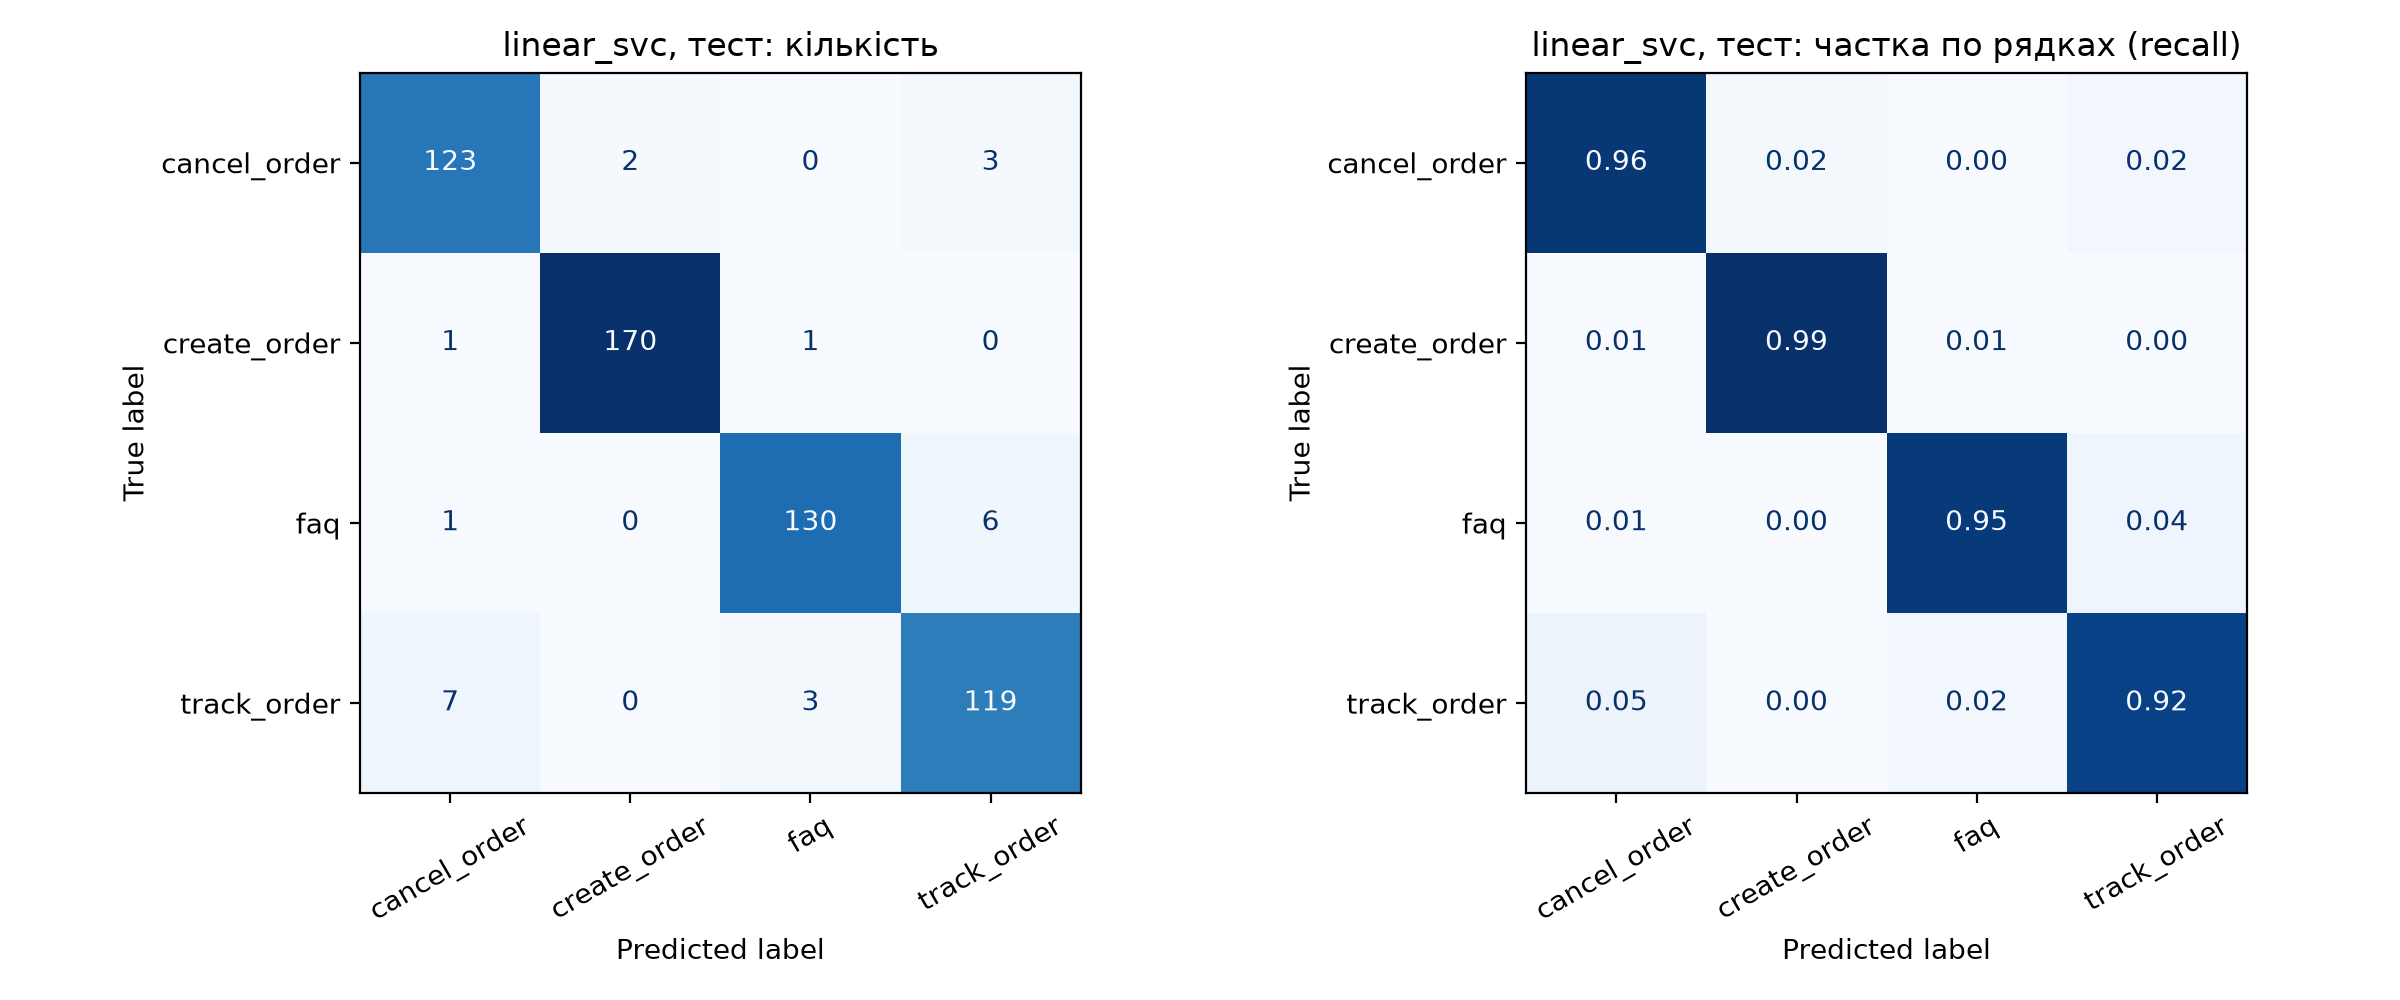
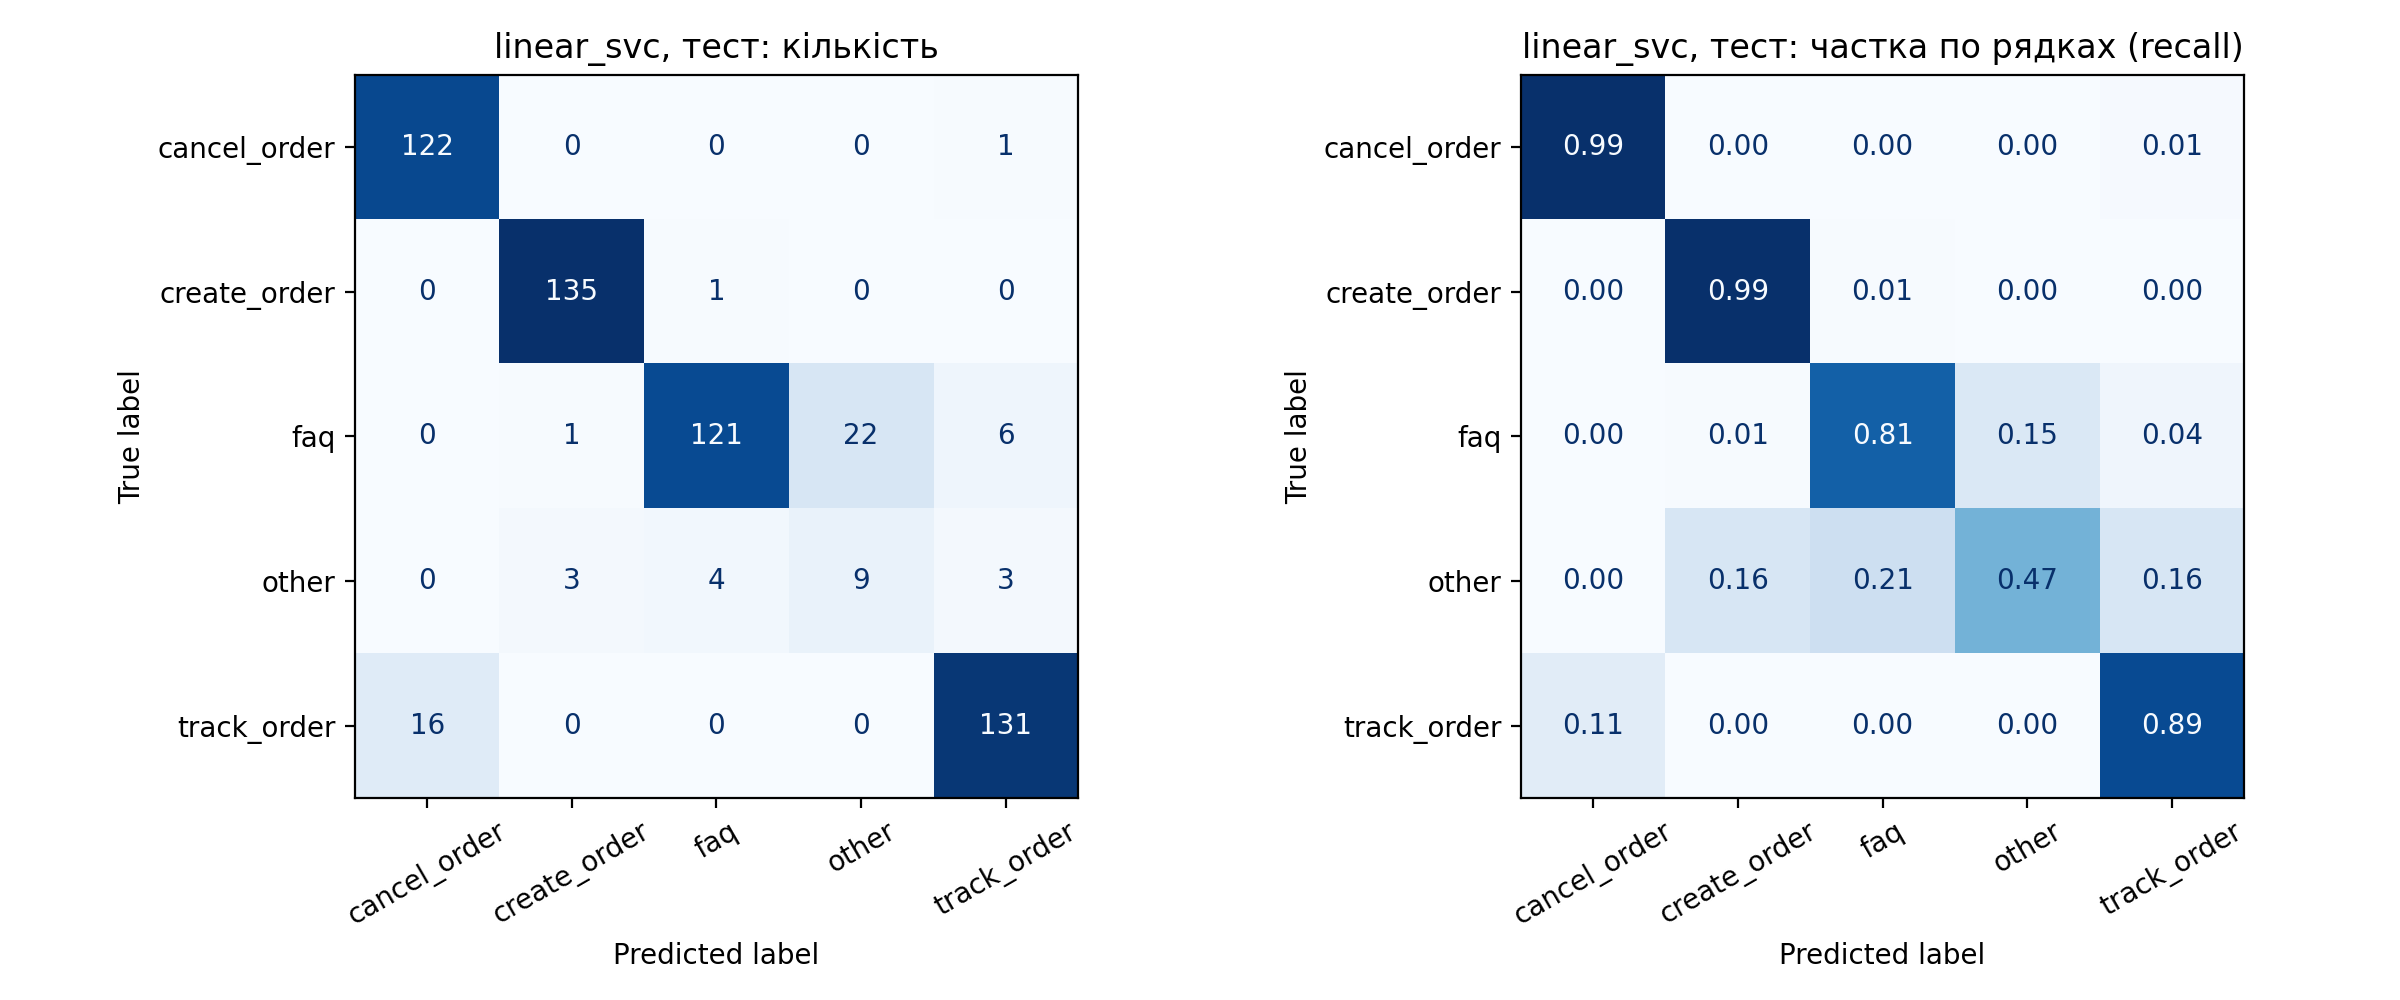
Update change

diff --git a/static/app.js b/static/app.js
@@ -151,7 +151,7 @@ function renderResult(data) {
   badge.style.background = data.intent_color || "#64748b";
 
   const conf = Math.round((data.intent_confidence || 0) * 100);
-  $("#confidence").textContent = `Точність розпізнавання: ${conf}%`;
+  $("#confidence").textContent = `Впевненість моделі: ${conf}%`;
   $("#conf-bar").style.width = `${conf}%`;
   $("#summary").textContent = data.summary || "";
 

diff --git a/experiments/make_report_plots.py b/experiments/make_report_plots.py
@@ -120,7 +120,6 @@ def plot_model_bars(res: pd.DataFrame, split_name: str, metric: str, lo: str, hi
 
 # 3. Матриця помилок
 def plot_cm(y_true, y_pred, labels, title: str, fname: Path) -> None:
-    labels = [label for label in labels if label != "other"]
     y_true = np.asarray(y_true)
     y_pred = np.asarray(y_pred)
     included = np.isin(y_true, labels) & np.isin(y_pred, labels)
